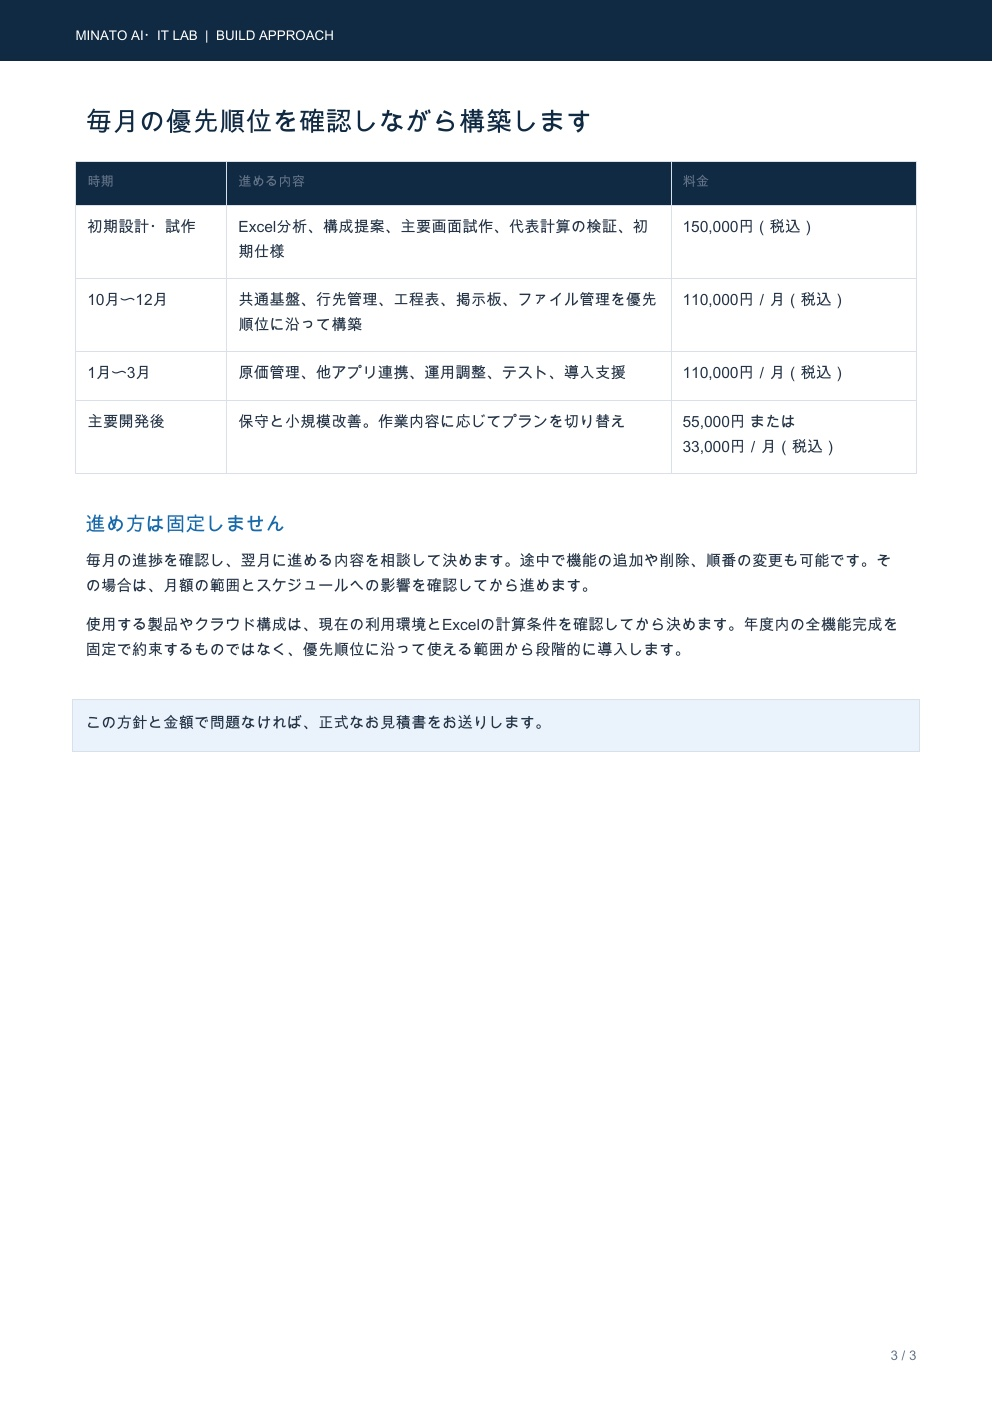
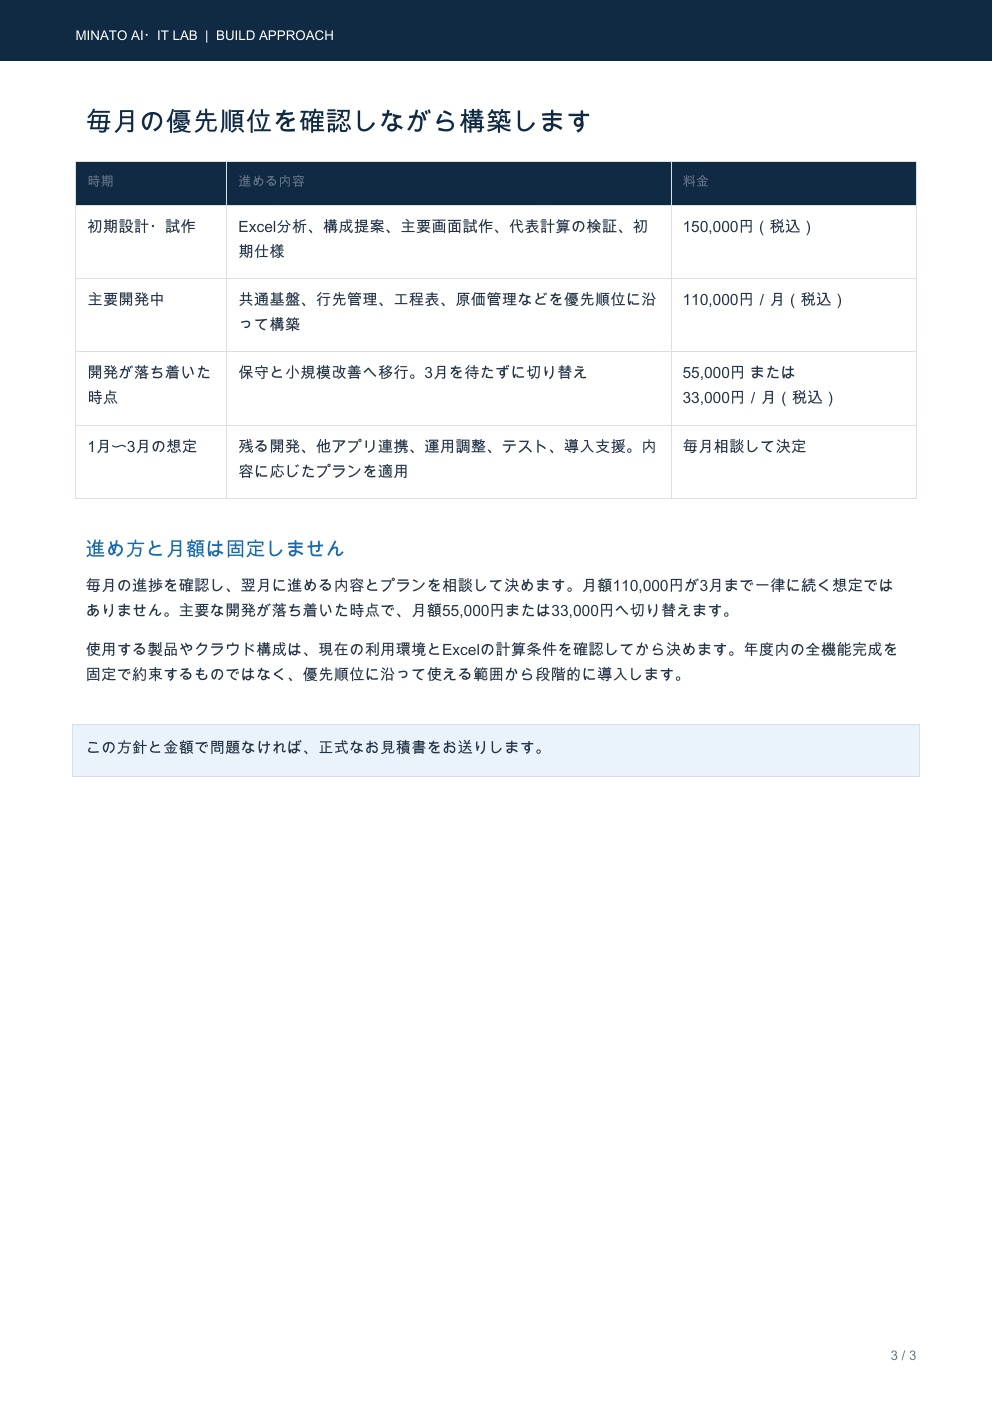
Clarify flexible monthly pricing

diff --git a/build-approach-preview.html b/build-approach-preview.html
@@ -32,12 +32,12 @@
 <h2>毎月の優先順位を確認しながら構築します</h2>
 <table><thead><tr><th>時期</th><th>進める内容</th><th>料金</th></tr></thead><tbody>
 <tr><td data-label="時期">初期設計・試作</td><td data-label="進める内容">Excel分析、構成提案、主要画面試作、代表計算の検証、初期仕様</td><td data-label="料金">150,000円（税込）</td></tr>
-<tr><td data-label="時期">10月〜12月</td><td data-label="進める内容">共通基盤、行先管理、工程表、掲示板、ファイル管理を優先順位に沿って構築</td><td data-label="料金">110,000円／月（税込）</td></tr>
-<tr><td data-label="時期">1月〜3月</td><td data-label="進める内容">原価管理、他アプリ連携、運用調整、テスト、導入支援</td><td data-label="料金">110,000円／月（税込）</td></tr>
-<tr><td data-label="時期">主要開発後</td><td data-label="進める内容">保守と小規模改善。作業内容に応じてプランを切り替え</td><td data-label="料金">55,000円または33,000円／月（税込）</td></tr>
+<tr><td data-label="時期">主要開発中</td><td data-label="進める内容">共通基盤、行先管理、工程表、原価管理などを優先順位に沿って構築</td><td data-label="料金">110,000円／月（税込）</td></tr>
+<tr><td data-label="時期">開発が落ち着いた時点</td><td data-label="進める内容">保守と小規模改善へ移行。3月を待たずに切り替え</td><td data-label="料金">55,000円または33,000円／月（税込）</td></tr>
+<tr><td data-label="時期">1月〜3月の想定</td><td data-label="進める内容">残る開発、他アプリ連携、運用調整、テスト、導入支援。内容に応じたプランを適用</td><td data-label="料金">毎月相談して決定</td></tr>
 </tbody></table>
-<h3>進め方は固定しません</h3>
-<p>毎月の進捗を確認し、翌月に進める内容を相談して決めます。途中で機能の追加や削除、順番の変更も可能です。その場合は、月額の範囲とスケジュールへの影響を確認してから進めます。</p>
+<h3>進め方と月額は固定しません</h3>
+<p>毎月の進捗を確認し、翌月に進める内容とプランを相談して決めます。月額110,000円が3月まで一律に続く想定ではありません。主要な開発が落ち着いた時点で、月額55,000円または33,000円へ切り替えます。</p>
 <p>使用する製品やクラウド構成は、現在の利用環境とExcelの計算条件を確認してから決めます。年度内の全機能完成を固定で約束するものではなく、優先順位に沿って使える範囲から段階的に導入します。</p>
 <div class="box">この方針と金額で問題なければ、正式なお見積書をお送りします。</div>
 </main>
